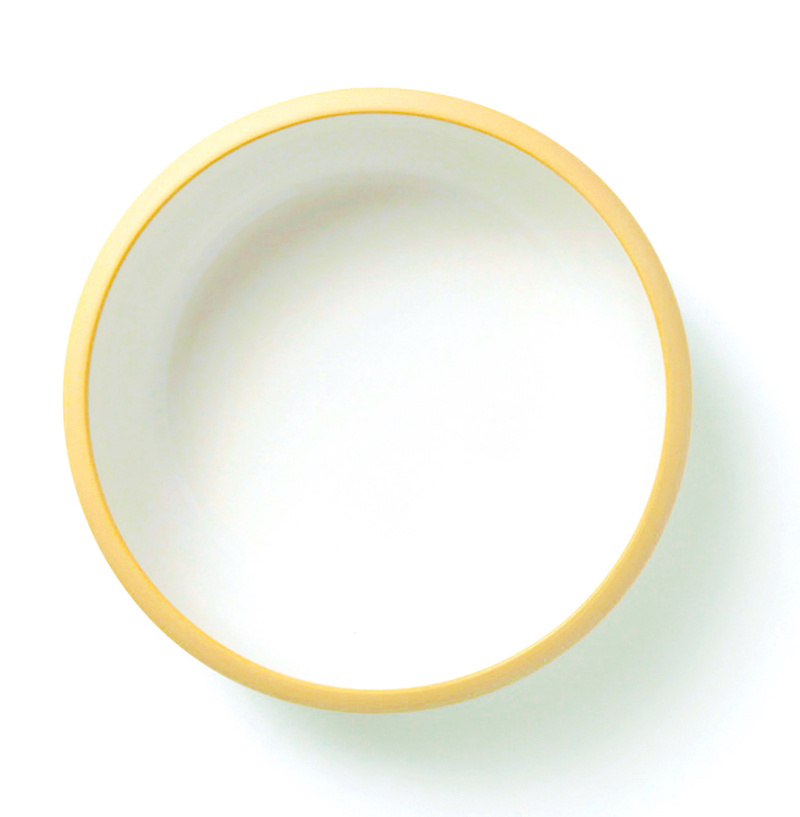
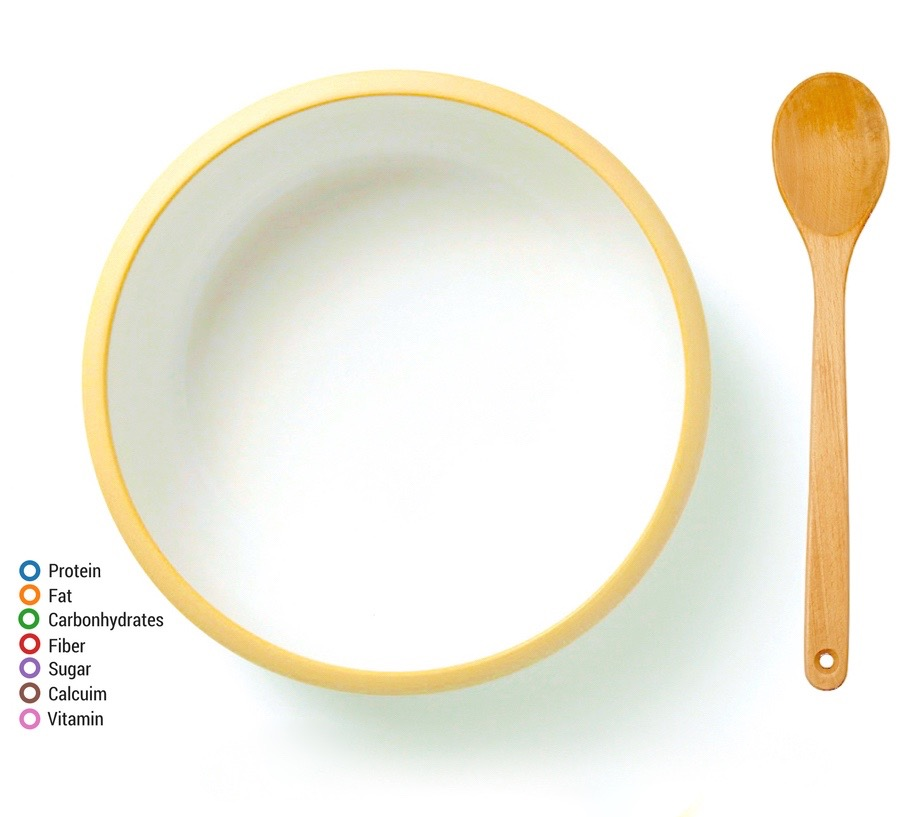
update

diff --git a/main2/index.html b/main2/index.html
@@ -596,23 +596,11 @@ var svg = d3.select("body").append("svg")
       var g=svg.append("g");
       var img=g.append("svg:image")
         .attr("xlink:href", "images/bowl.jpg")
-        .attr("x", width/8.2)
+        .attr("x", width/7.5)
         .attr("y", height/10)
         .attr("height", 650)
         .attr("width", 650);
 
-      
-      var img2=g.append("svg:image")
-        .attr("xlink:href", "images/spoon.png")
-        .attr("x", width-100)
-        .attr("y", width/3.8)
-        .attr("height", 450);
-
-      var img3=g.append("svg:image")
-        .attr("xlink:href", "images/legend.png")
-        .attr("x", 100)
-        .attr("y", height-180)
-        .attr("height", "20%");
 
 
 var node = svg.selectAll("circle")
